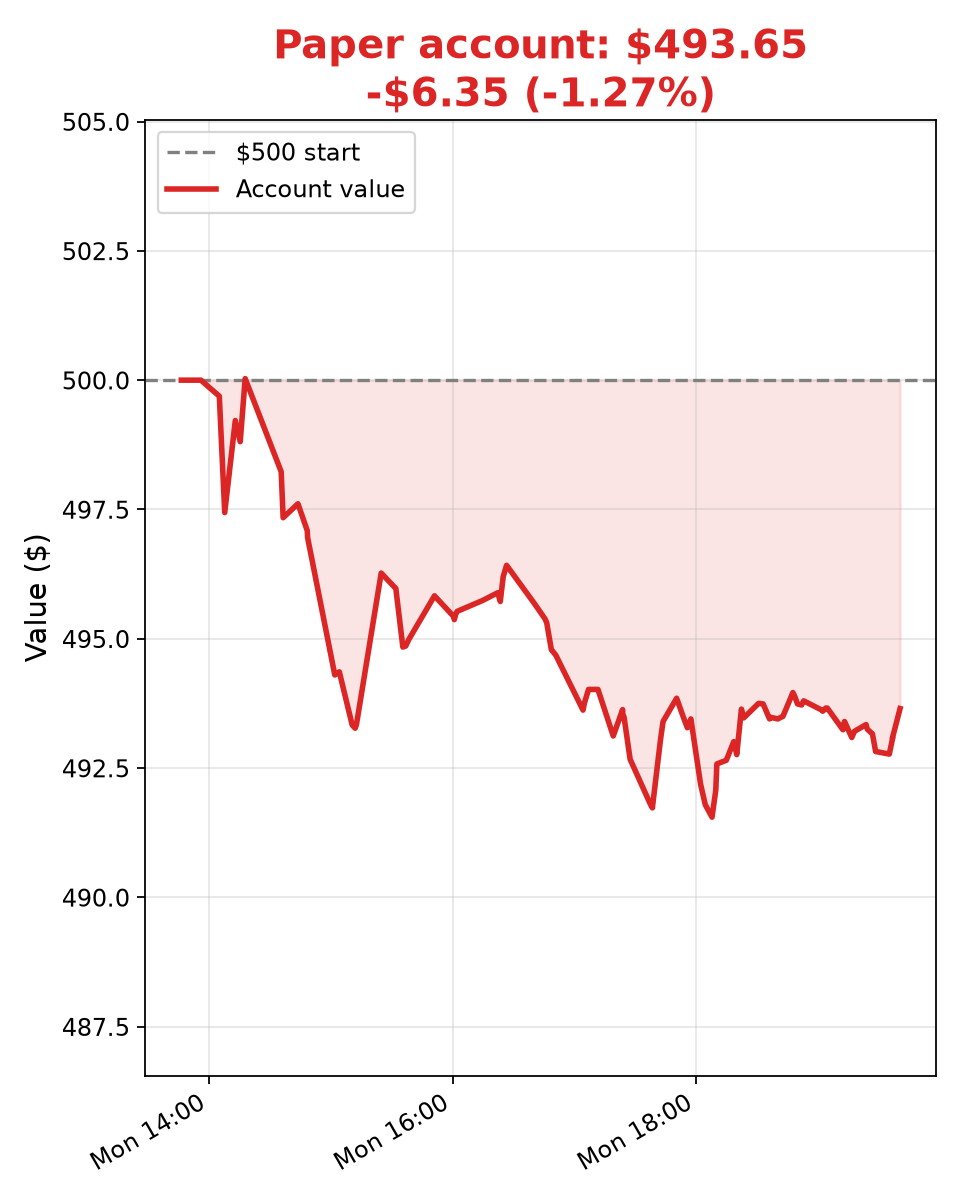
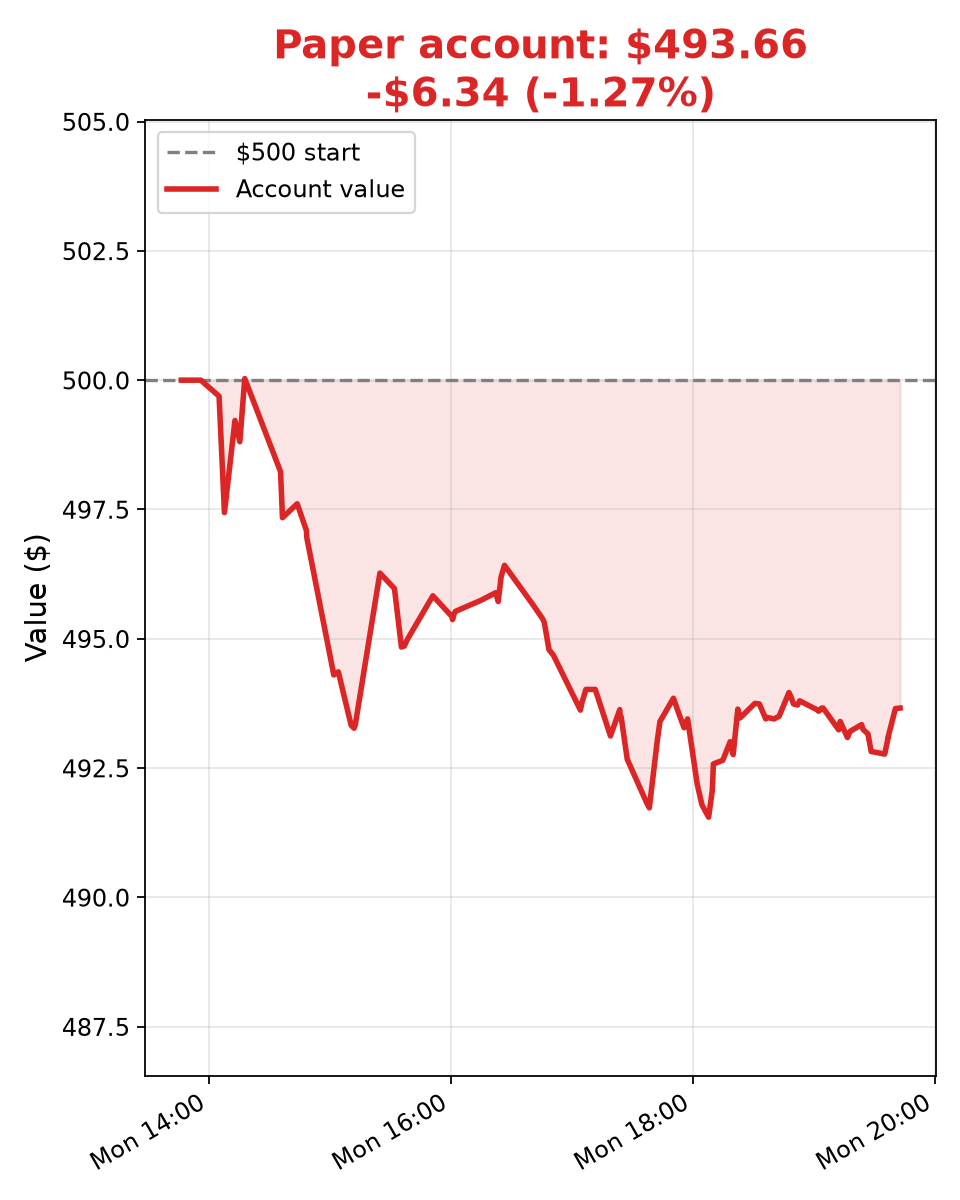
Update 2026-10-12T19:42:37Z

diff --git a/ledger.md b/ledger.md
@@ -132,3 +132,4 @@
 - 2026-10-12T19:36:39Z — total $493.08, cash $196.95 (Bot2 mark, 2:36 PM CT, no trade; FRO 58.75, DHT 25.965 marked; no stops/targets hit — both bouncing modestly off 19:31–19:32 afternoon lows (FRO 58.61, DHT 25.89) as SPY lifts off LOD to 777.85; still under entry, well above stops 57.90 / 25.40; cash idle, no fresh catalyst)
 - 2026-10-12T19:36:32Z — total $493.08, cash $196.95 (Bot1 mark, 2:36 PM CT, no trade; FRO 58.75, DHT 25.965 marked; no stops/targets hit — small bounce off 19:31–19:32 afternoon lows (FRO 58.61, DHT 25.89) as SPY lifts to 777.83 on an 90k 19:35 bar; tankers still under ~58.9 / ~26.0 lids and entry; stops 57.90 / 25.40 intact)
 - 2026-10-12T19:40:18Z — total $493.65, cash $196.95 (Jr mark, 2:40 PM CT, no trade; FRO 58.835, DHT 26.03 marked; no stops/targets hit — both bounced off the 19:31–19:32 afternoon lows with SPY (FRO back to 58.91 high on the 15k 19:39 bar, DHT reclaimed ~26.0 at 26.03–26.08); FRO still under the 58.95 add trigger, so Jr add condition unmet)
+- 2026-10-12T19:42:36Z — total $493.66, cash $196.95 (Bot4 mark, 2:42 PM CT, no trade; FRO 58.827, DHT 26.035 marked; no stops/targets hit — both holding the bounce off the 19:31–19:32 afternoon lows (FRO 58.61, DHT 25.89) with SPY 777.79 off LOD 777.05; FRO topped 58.906 on the 19:39 bar but still capped under ~58.9 lid, DHT holding just above ~26.0 shelf (26.03–26.08); both under entry, well above stops 57.90 / 25.40; cash idle, no fresh catalyst)
